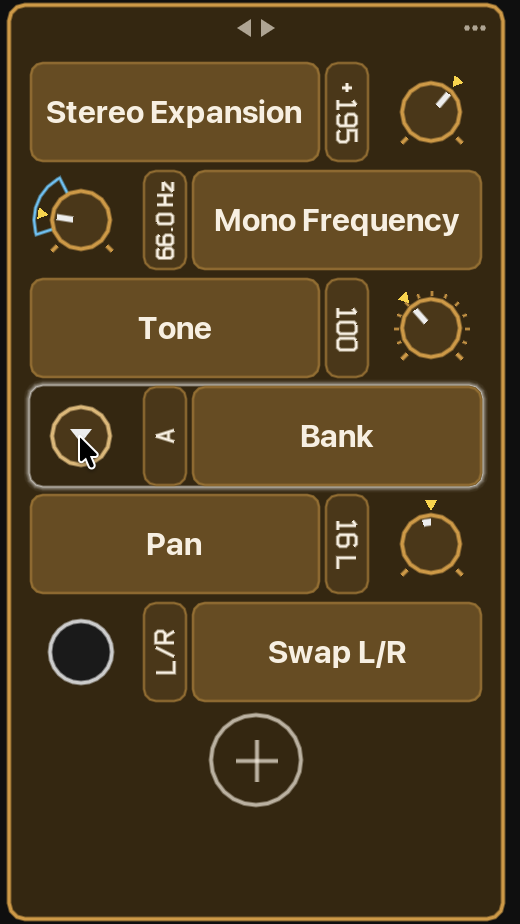
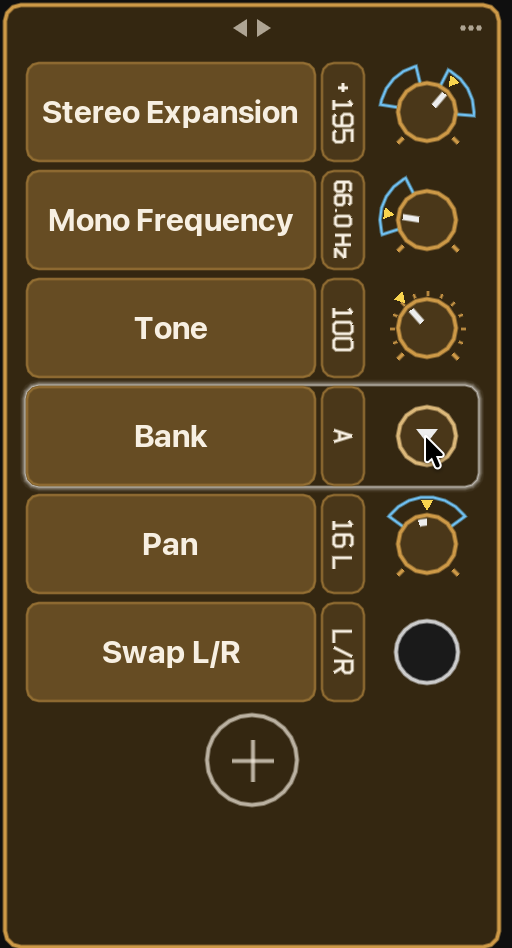
Docs: display options (emphasis, control position, typing a value); quick access screenshots retaken

diff --git a/README.md b/README.md
@@ -436,13 +436,38 @@ where you are.
 - Drag up and down (finer the farther the pointer is to the side) or around the control: **Settings >
   Controls > Rotary encoder**. The mouse wheel (or two fingers on a trackpad) turns it too; **Shift** is finer.
 - The small yellow mark is the **default**: double-click the control to go back to it.
-- A small box between the control and the name shows the value, turned a quarter turn.
-- **Control position:** the controls sit on the right of every row, on the left, or alternating from row to
-  row (**Settings > Performance mode > Control position**). A panel can have its own: its **...** menu >
-  **Control position** (Default follows Settings).
+- The value shows next to the name (see **Display options** below for the two ways it can look). Double-click
+  it to type a value.
 
 <img src="docs/img/quick-access-controls.png" width="260" alt="Controls: encoders, a stepped encoder (Tone), a drop-down (Bank), a toggle (Swap L/R); a blue arc shows limits">
 <img src="docs/img/quick-access-row-menu.png" width="660" alt="Right-click a parameter (Edit mode): Control, Nickname, Recolor, Inspect, the snap-back option, Copy / Paste, Remove">
+
+**Display options.**
+
+- **Emphasis** (**Display > Emphasis**, also in **Settings > Performance mode**), for every panel:
+  - **Name** (the default): the name in big letters, the value in a narrow box beside it, written a quarter
+    turn.
+  - **Value:** the value in big letters, horizontal and centered, with its unit a little smaller after it;
+    the name small, on one line above it. Each row keeps the same size while its value changes, so nothing
+    jumps while you turn a control.
+
+  <img src="docs/img/value-emphasis.png" width="840" alt="Emphasis on the value: each row shows its value in big letters, the name small above it">
+
+- **Control position:** the controls sit on the **right** of every row (the default), on the **left**, or
+  **alternating** from row to row. **Settings > Performance mode > Control position** sets it for every
+  panel; a panel's **...** menu > **Control position** gives it its own (**Default** follows Settings). A
+  widened panel keeps it, and a duplicated rack or a template takes it along.
+
+  <img src="docs/img/control-position-menu.png" width="760" alt="A panel's ... menu > Control position: Default, Left, Right, Alternating">
+
+- **Type a value:** double-click a row's value (not a toggle or a drop-down). A field opens, ready to type in,
+  the value it has now selected: type a number in the parameter's own unit (the unit is optional), then
+  **Enter** or a click elsewhere sets it, **Escape** leaves it. A stepped encoder lands on a step, and limits
+  are kept (the nearest allowed value). With the emphasis on the value, the field takes the number's place,
+  in its size, the unit still showing after it; on the name, it lies across the vertical value. It works in
+  Show mode too. Double-clicking the name opens the Inspector (Edit mode).
+
+  <img src="docs/img/type-value-value-emphasis.png" width="252" alt="Typing a value, emphasis on the value"> <img src="docs/img/type-value-name-emphasis.png" width="252" alt="Typing a value, emphasis on the name">
 
 <img src="docs/img/parameters-window.png" width="402" alt="The Parameters window: a rack, its FX and their parameters, with tick boxes">
 
@@ -534,7 +559,7 @@ The top bar, right side: **+** (new rack), then four menus.
 | **Latency** | Latency alerts, Silence / Resume, Latency limits, Scan new / Rescan all FX, Retry failed FX, Ask to scan new FX |
 | **Options** | Disconnect inputs/outputs on copy and template, Disable metering and Level match, Stereo pairs on odd-even channels only, Open the FOH-Mate data folder, Settings... |
 
-<img src="docs/img/menu-display.png" width="400" alt="The Display menu"> <img src="docs/img/menu-fx.png" width="400" alt="The FX menu">
+<img src="docs/img/menu-display.png" width="300" alt="The Display menu, with Emphasis"> <img src="docs/img/menu-fx.png" width="400" alt="The FX menu">
 <img src="docs/img/menu-latency.png" width="400" alt="The Latency menu"> <img src="docs/img/menu-options.png" width="400" alt="The Options menu">
 
 Windows (Settings, FX list) reopen at the size you left them, also after being collapsed.

diff --git a/docs/PERFORMANCE_MODE.md b/docs/PERFORMANCE_MODE.md
@@ -18,8 +18,12 @@ project). Edit and Show keep working inside it.
   panel belongs to its rack (rows are saved on the rack's track, so a duplicated rack takes them along).
   Each row is one parameter: the FX's GUID, the parameter's index and the name the FX reported (to
   notice a changed FX); a row whose FX or parameter is gone is greyed out, never dropped silently.
-- **Rows alternate sides** (name left / control right, then the other way). The name is bold in its own
-  box (two lines), a small vertical box between name and control shows the value. The whole row glows
+- **Where the control sits** (Settings > Performance mode > Control position, or per panel in its "..."
+  menu): on the right of every row (the default), on the left, or alternating from row to row.
+- **What stands out** (Display > Emphasis): the **name** in bold in its own box (two lines), the value in
+  a small vertical box beside it; or the **value** in big letters, horizontal, its unit smaller, the name
+  small on one line above it (each row keeps its size, so it doesn't jump while the value changes; the
+  vertical text is still there for the name emphasis). Double-click a value to type one. The whole row glows
   under the pointer; pointing at an FX in a rack makes its rows glow in its color, and the other way.
 - **Each panel scrolls on its own** (the rows fade at an edge while there is more, plus a slim bar). A
   band at its top widens it over the neighbours (rows flow in columns, bigger); one at a time.
